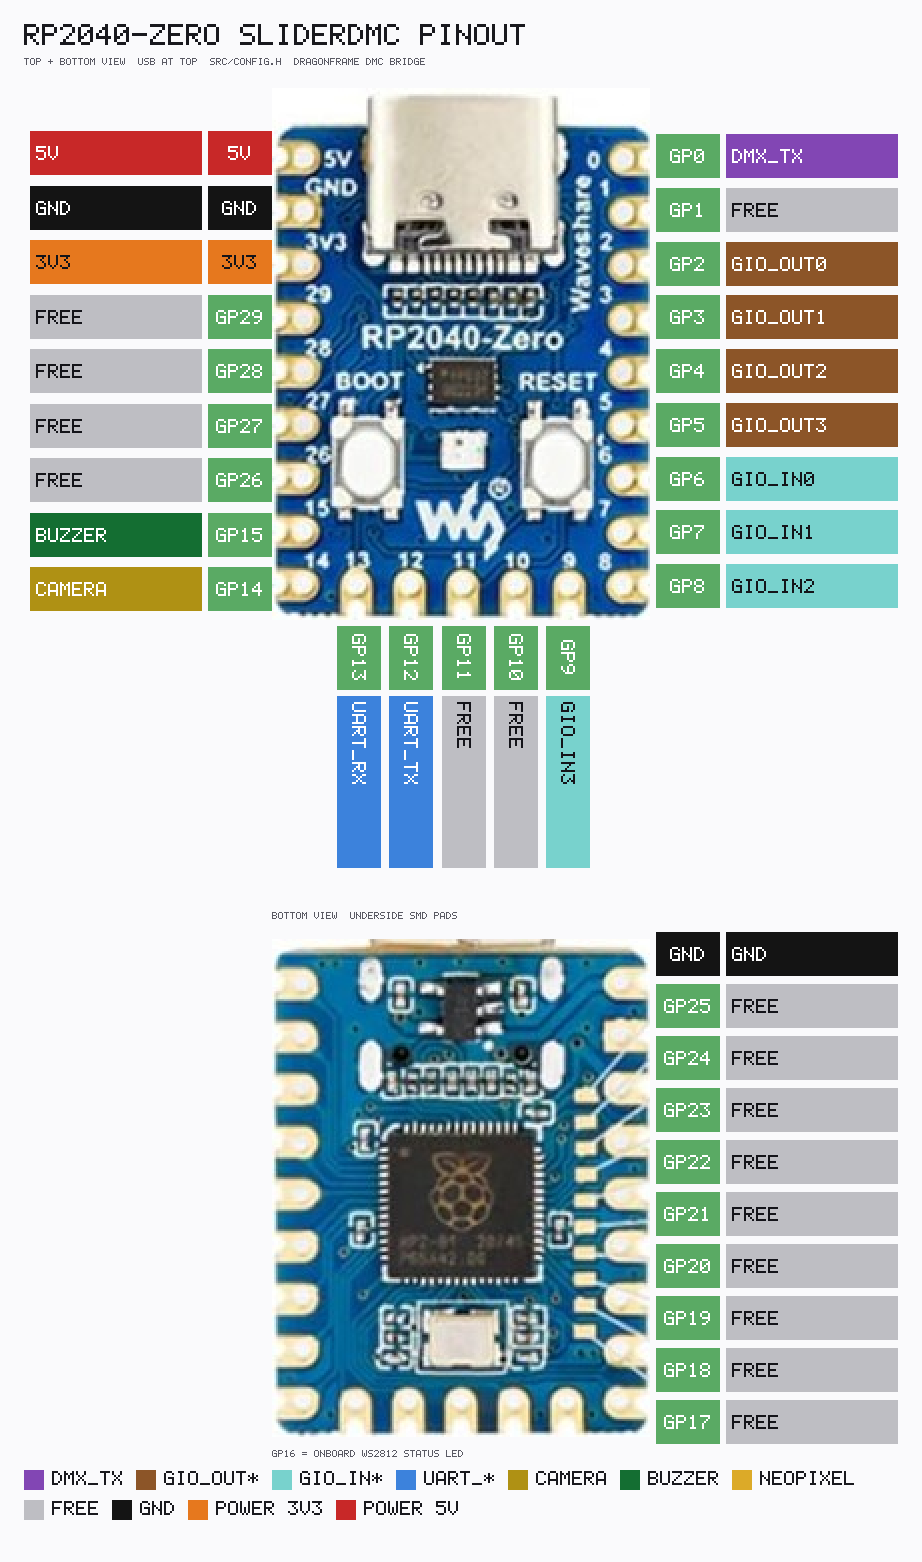
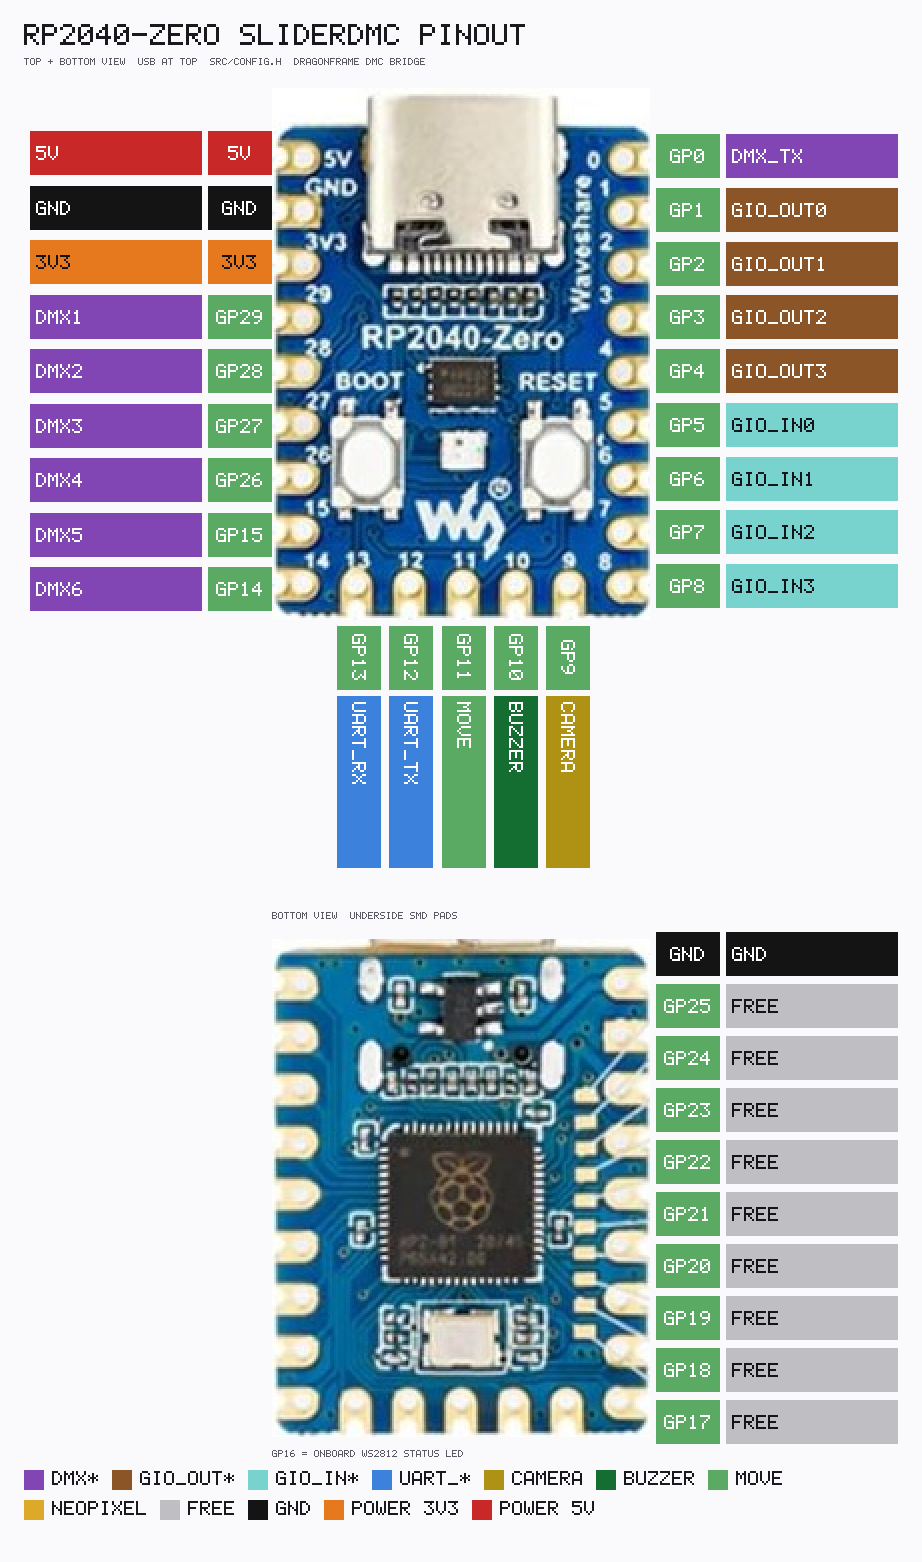
Document motor/servo unit keys and the remapped DMC pinout.
axis_N_unit is the packed read-only label; DMC camera/buzzer/GIO move so DMX1-6 PWM and MOVE fit on the Zero.

diff --git a/tools/render_rp2040zero_pinout_SliderDMC.py b/tools/render_rp2040zero_pinout_SliderDMC.py
@@ -53,34 +53,34 @@ LEFT = [
     ("5V", "5V"),
     ("GND", "GND"),
     ("3V3", "3V3"),
-    ("GP29", "free"),
-    ("GP28", "free"),
-    ("GP27", "free"),
-    ("GP26", "free"),
-    ("GP15", "BUZZER"),
-    ("GP14", "CAMERA"),
+    ("GP29", "DMX1"),
+    ("GP28", "DMX2"),
+    ("GP27", "DMX3"),
+    ("GP26", "DMX4"),
+    ("GP15", "DMX5"),
+    ("GP14", "DMX6"),
 ]
 
 # Right edge, top→bottom.
 RIGHT = [
     ("GP0", "DMX_TX"),
-    ("GP1", "free"),
-    ("GP2", "GIO_OUT0"),
-    ("GP3", "GIO_OUT1"),
-    ("GP4", "GIO_OUT2"),
-    ("GP5", "GIO_OUT3"),
-    ("GP6", "GIO_IN0"),
-    ("GP7", "GIO_IN1"),
-    ("GP8", "GIO_IN2"),
+    ("GP1", "GIO_OUT0"),
+    ("GP2", "GIO_OUT1"),
+    ("GP3", "GIO_OUT2"),
+    ("GP4", "GIO_OUT3"),
+    ("GP5", "GIO_IN0"),
+    ("GP6", "GIO_IN1"),
+    ("GP7", "GIO_IN2"),
+    ("GP8", "GIO_IN3"),
 ]
 
 # Bottom edge, left→right.
 BOTTOM = [
     ("GP13", "UART_RX"),
     ("GP12", "UART_TX"),
-    ("GP11", "free"),
-    ("GP10", "free"),
-    ("GP9", "GIO_IN3"),
+    ("GP11", "MOVE"),
+    ("GP10", "BUZZER"),
+    ("GP9", "CAMERA"),
 ]
 
 # Bottom view SMD pads, top→bottom.
@@ -98,12 +98,13 @@ BOT_PADS = [
 ]
 
 LEGEND = [
-    ("DMX_TX", C_DRV),
+    ("DMX*", C_DRV),
     ("GIO_OUT*", C_EXT),
     ("GIO_IN*", C_SW),
     ("UART_*", C_UART),
     ("CAMERA", C_CAMERA),
     ("BUZZER", C_BUZZER),
+    ("MOVE", C_GP),
     ("NEOPIXEL", C_LED),
     ("free", C_FREE),
     ("GND", C_GND),
@@ -117,8 +118,9 @@ ASCII_HEAD = (
 )
 
 ASCII_NOTES = [
-    "Legend: DMX_TX GP0 (PIO UART 250k 8N2); GIO OUT GP2–5; GIO IN GP6–9.",
-    "UART to SliderMC 115200 baud GP12 (TX) / GP13 (RX). CAMERA GP14 (OC). BUZZER GP15.",
+    "Legend: DMX_TX GP0 (PIO UART 250k 8N2); DMX1–6 PWM 18 kHz on GP29/28/27/26/15/14 (ch 1–6).",
+    "GIO OUT GP1–4; GIO IN GP5–8. UART to SliderMC 115200 baud GP12 (TX) / GP13 (RX).",
+    "CAMERA GP9 (OC). BUZZER GP10. MOVE GP11 high while verbose status is M/A/B/H/P.",
     "GP16 = onboard WS2812 status LED. GP17–20 are not DMC GIO (those are MC extender pins).",
     "Cross UART to SliderMC: DMC TX GP12 → MC RX; DMC RX GP13 ← MC TX. See dmc/pins.md.",
 ]

diff --git a/tools/pinout_common.py b/tools/pinout_common.py
@@ -253,6 +253,8 @@ def color_for(label: str, gpio: str, pin_num: int | None = None):
         return C_POT
     if lab == "CAMERA_CTRL" or lab == "CAMERA":
         return C_CAMERA
+    if lab == "MOVE":
+        return C_GP
     if lab.startswith("CTRL_") or "CTRL_CAMERA" in lab:
         return C_CTRL
     if lab.startswith("LED_") or lab in ("LED", "PIN_LED") or "NEOPIXEL" in lab:

diff --git a/dmc/pins.md b/dmc/pins.md
@@ -19,13 +19,20 @@ Regenerate: `python tools/render_rp2040zero_pinout_SliderDMC.py` → [`DMC_RP204
 | Pad | Function |
 |-----|----------|
 | GP0 | DMX512 TX (PIO UART 250000 8N2 + BREAK/MAB). MAX485 for a real universe; TTL is enough on the bench |
-| GP2–GP5 | DMC GIO **OUT** bits 0–3 (open-collector + pull-up) |
-| GP6–GP9 | DMC GIO **IN** bits 0–3 (pull-up; unsolicited `MSG_GIO_IN` after Connect) |
+| GP1–GP4 | DMC GIO **OUT** bits 0–3 (open-collector + pull-up) |
+| GP5–GP8 | DMC GIO **IN** bits 0–3 (pull-up; unsolicited `MSG_GIO_IN` after Connect) |
+| GP9 | Camera shutter (open-collector + pull-up); also MC `CT` on `MSG_GIO_CAM` shutter |
+| GP10 | Preroll/bloop buzzer; also MC `BE` from `RUN_MOVE` |
+| GP11 | **MOVE** — push-pull, high while the verbose status letter is `M`, `A`, `B`, `H`, or `P`; low on `I`, `E`, `D`, `L`. `T` (camera overlay) leaves the pin as it is |
 | GP12 | UART TX to SliderMC (115200) |
 | GP13 | UART RX from SliderMC |
-| GP14 | Camera shutter (open-collector + pull-up); also MC `CT` on `MSG_GIO_CAM` shutter |
-| GP15 | Preroll/bloop buzzer; also MC `BE` from `RUN_MOVE` |
+| GP14 | DMX6 PWM (channel 6) |
+| GP15 | DMX5 PWM (channel 5) |
 | GP16 | Onboard WS2812 status LED |
+| GP26 | DMX4 PWM (channel 4) |
+| GP27 | DMX3 PWM (channel 3) |
+| GP28 | DMX2 PWM (channel 2) |
+| GP29 | DMX1 PWM (channel 1) |
 | USB CDC | Dragonframe DMC |
 
 GP17–20 are **not** DMC GIO. SliderMC extender pins (`ED`/`EI`/`EO`) stay on the **motion** Zero. Do not share those pads with this board’s GIO.
@@ -89,11 +96,28 @@ A/B polarity: if dimmers ignore the universe, swap A/B. Bench without a transcei
 
 ---
 
-## Camera GP14 — 2N7000 level-shifter (5 V) and GPIO protection
+## DMX1–DMX6 PWM
 
-Firmware drives GP14 as **open-collector + pull-up** (same idea as SliderMC `PIN_CAMERA_CTRL`). The pad is **3.3 V only**. Use this FET path when the camera or box wants **5 V TTL/CMOS** and shared GND is OK.
+Channels **1–6** of the same 512-byte buffer also drive PWM, so a dimmer can sit on the Zero without a DMX receiver. Channels 7–512 stay on the GP0 UART only.
 
-**GPIO protection:** series 220–470 Ω from GP14 to the gate; optional BAT54 (or Schottky) clamp from the pad to 3.3 V and GND. Never put 5 V on GP14.
+| Name | Pad | Channel |
+|------|-----|---------|
+| DMX1 | GP29 | 1 |
+| DMX2 | GP28 | 2 |
+| DMX3 | GP27 | 3 |
+| DMX4 | GP26 | 4 |
+| DMX5 | GP15 | 5 |
+| DMX6 | GP14 | 6 |
+
+18 kHz, high-active, 255 counts per period. Level 0 is steady low, level 255 is steady high, and a level *n* is high for *n*/255 of the period (1 → 1/255, 10 → 10/255, 254 → 254/255).
+
+---
+
+## Camera GP9 — 2N7000 level-shifter (5 V) and GPIO protection
+
+Firmware drives GP9 as **open-collector + pull-up** (same idea as SliderMC `PIN_CAMERA_CTRL`). The pad is **3.3 V only**. Use this FET path when the camera or box wants **5 V TTL/CMOS** and shared GND is OK.
+
+**GPIO protection:** series 220–470 Ω from GP9 to the gate; optional BAT54 (or Schottky) clamp from the pad to 3.3 V and GND. Never put 5 V on GP9.
 
 Isolated dry-contact shutter cables: use a **PC817** instead — [components/camera.md](../components/camera.md) and [mc/pins.md](../mc/pins.md#pin_camera_ctrl-low-active-open-collector).
 
@@ -102,7 +126,7 @@ Isolated dry-contact shutter cables: use a **PC817** instead — [components/cam
           |                            |
          BAT54*                       10k
           |                            |
-  GP14 -- 330 Ω -- G (2N7000)          |
+  GP9 -- 330 Ω -- G (2N7000)          |
                     S -------- D ------+---- camera TTL in
                     |
                    GND
@@ -117,7 +141,7 @@ Idle (pad released ~3.3 V): FET off → output **5 V**. Shutter (pad LOW): FET o
 
 ---
 
-## Buzzer GP15 — BC3xx NPN driver
+## Buzzer GP10 — BC3xx NPN driver
 
 Do not hang a 5 V buzzer on the GPIO. Use an NPN low-side switch (`BC337` / `BC547`; not PNP `BC327`). Firmware also pulses MC `BE` — **one physical buzzer** is enough (this board **or** the MC).
 
@@ -132,7 +156,7 @@ Do not hang a 5 V buzzer on the GPIO. Use an NPN low-side switch (`BC337` / `BC5
                        |
                       1 kΩ
                        |
-                      GP15
+                      GP10
 ```
 
 Active (self-drive) buzzers: omit the flyback diode. Passive piezo: this is an on/off driver, not a tone generator.

diff --git a/mc/dual-movement.md b/mc/dual-movement.md
@@ -73,10 +73,10 @@ Protocol text often says mm / mm/s / mm/s², but values are **user units** conve
 
 | Setup | Treat args as | Set |
 |-------|---------------|-----|
-| Linear slider | mm, mm/s, mm/s² | `steps_per_unit_1` = steps per mm; `unit_name=mm` |
-| Rotary / pan | °, °/s, °/s² | `steps_per_unit_1` (or `_2`) = steps per degree; `unit_name=deg` |
+| Linear slider | mm, mm/s, mm/s² | `steps_per_unit_1` = steps per mm; `motor_1_unit=mm` |
+| Rotary / pan | °, °/s, °/s² | `steps_per_unit_1` (or `_2`) = steps per degree; `motor_N_unit=deg` |
 
-`CG unit_name` lets a UIC show the unit label (default `mm`). Soft limits, `IP`, and verbose positions use the same user unit.
+`CG axis_N_unit` is the packed label a UIC shows. It is generated from `motor_N_unit` (default `mm`) or `servo_N_unit` (default `deg`). **`CS axis_N_unit` is rejected.** Soft limits, `IP`, and verbose positions use the same user unit.
 
 Same-release synonyms: `steps_per_mm_1` / `steps_per_mm_2` still set the same fields; `CG`/`foreach` emit the canonical names. There are **no aliases** for unnumbered `steps_per_unit` / `steps_per_mm`.
 
@@ -106,7 +106,7 @@ CS MOTOR_2_max none
 | `DRV_*_1_active`, `SW_*_1_*`, `home_*_1` | same keys with `_2` (digit before `_active` / `_use`) |
 | `max_speed_1` / `max_accel_1` | `max_speed_2` / `max_accel_2` |
 
-**Shared** (not per-motor): session `SS`/`SA` (master units), `unit_name`, `motors`/`servos`, `name`, ramp/path globals, debug/verbose init. `MJ` uses session `SS` as 100 % and clamps each motor to its own `max_speed_N`. Packed servos use `SERVO_N_*`. Motor 3 uses the matching `_3` keys when `motors=3`.
+**Shared** (not per-motor): session `SS`/`SA` (master units), `motors`/`servos`, `name`, ramp/path globals, debug/verbose init. Each motor has `motor_N_unit`; each servo has `servo_N_unit`. Packed `axis_N_unit` is generated from those and is read-only. `MJ` uses session `SS` as 100 % and clamps each motor to its own `max_speed_N`. Packed servos use `SERVO_N_*`. Motor 3 uses the matching `_3` keys when `motors=3`.
 
 Full tables: [config.md](config.md).
 
@@ -120,7 +120,7 @@ Full tables: [config.md](config.md).
 4. **Prefer pan on motor 2** — keeps linear “mm” on motor 1 (`IP` first field / UIC habit). `WP` / Wait Pos is the **time-sync master** (optional 2nd arg is timeout). In-move `;` chains: [command-chains.md](../architecture/command-chains.md). Homing: `MH 1|2|3` (motors only).
 5. **`max_speed_1` / `max_speed_2` clamp:** if `|d2| ≫ |d1|`, scaled `v2` may hit `max_speed_2` and **lose** perfect time sync — shorten the axis2 move, raise the cap, or move axes sequentially. Mid-move `SS`/`SA` stay time-synced while coordination is active (same clamp still applies).
 6. **Path mode (`PG`):** extra `PD` args are **slice-timed**, not the same as dual-`MT` distance scaling. See [motion-path.md](motion-path.md).
-7. **UIC:** both JKSlider and B4Slider select packed axes 1–6 (`getAxisCount()`). JKSlider MOVE/FAST send packed `MJ` with **0** on unselected live channels; B4Slider MOVE uses skipped `MT`. JKSlider A/B/C marks, loops, DELAY, and MSM stay **axis 1**. Hosts/scripts can still send dual `MT` directly. Use `CG unit_name` for the display unit.
+7. **UIC:** both JKSlider and B4Slider select packed axes 1–6 (`getAxisCount()`). JKSlider MOVE/FAST send packed `MJ` with **0** on unselected live channels; B4Slider MOVE uses skipped `MT`. JKSlider A/B/C marks, loops, DELAY, and MSM stay **axis 1**. Hosts/scripts can still send dual `MT` directly. Use `CG axis_N_unit` for the display unit (`CS` rejects it; set `motor_N_unit` or `servo_N_unit`).
 
 ---
 
@@ -128,6 +128,6 @@ Full tables: [config.md](config.md).
 
 - [ ] `CS motors 2` (no `RB`)
 - [ ] `steps_per_unit_1` / `_2` match mechanics (mm or °)
-- [ ] `unit_name` set for UIC (`mm` or `deg`)
+- [ ] `motor_N_unit` / `servo_N_unit` set for UIC (`mm` or `deg`; read back as `axis_N_unit`)
 - [ ] Soft limits `none` on any endless rotate motor
 - [ ] Watch `|d2|/|d1|` vs `max_speed_1` / `max_speed_2` on dual seeks

diff --git a/contract/protocol.md b/contract/protocol.md
@@ -280,7 +280,7 @@ Verbose / `#` while in path-mode (state letter `P`) use the same layouts as othe
 | `CR` | Config Reset | — | Reset all config to compiled defaults and save `mc.ini`. |
 | `CG` | Config Get | `key` or bare | Get key → `CG:key=value`; bare dumps all keys. |
 
-Important keys: `init_speed`, `init_accel`, `max_speed_1`, `max_accel_1`, `max_speed_2`, `max_accel_2`, `max_speed_3`, `max_accel_3`, `steps_per_unit_1`, `unit_name`, `MOTOR_N_min`/`MOTOR_N_max`, `SERVO_N_min`/`SERVO_N_max`, `SERVO_N_min_pulse`/`SERVO_N_max_pulse`/`SERVO_N_swap`, synthesized `axis_min_N`/`axis_max_N`, `motors`, `servos`, `axis` (read-only sum; dump emits it), `name`, `init_verbose`, `init_terminal`, `init_debug_level`, pin keys with the digit **before** the suffix (`DRV_STEP_1_active`, `SW_LIMIT_R_3_use`), `BUZZER_use`, `home_mode_1` / `home_move_out_1` / `home_speed_1` / `home_accel_1`, matching `_2` / `_3` keys, `ramp_start_hz`, `stop_approach_hz`, `dir_change_pause_s`. Synonyms: `steps_per_mm_N`, `soft_min_N` / `soft_max_N` (aliases of packed `axis_min_N`). **`CS axis` and `CS slider_*` are rejected.** See [config.md](../mc/config.md).
+Important keys: `init_speed`, `init_accel`, `max_speed_1`, `max_accel_1`, `max_speed_2`, `max_accel_2`, `max_speed_3`, `max_accel_3`, `steps_per_unit_1`, `motor_N_unit` / `servo_N_unit` (stored; defaults `mm` / `deg`), `MOTOR_N_min`/`MOTOR_N_max`, `SERVO_N_min`/`SERVO_N_max`, `SERVO_N_min_pulse`/`SERVO_N_max_pulse`/`SERVO_N_swap`, synthesized `axis_min_N`/`axis_max_N` and `axis_N_unit` (packed copy of the motor or servo label), `motors`, `servos`, `axis` (read-only sum; dump emits it), `name`, `init_verbose`, `init_terminal`, `init_debug_level`, pin keys with the digit **before** the suffix (`DRV_STEP_1_active`, `SW_LIMIT_R_3_use`), `BUZZER_use`, `home_mode_1` / `home_move_out_1` / `home_speed_1` / `home_accel_1`, matching `_2` / `_3` keys, `ramp_start_hz`, `stop_approach_hz`, `dir_change_pause_s`. Synonyms: `steps_per_mm_N`, `soft_min_N` / `soft_max_N` (aliases of packed `axis_min_N`). **`CS axis`, `CS axis_N_unit`, and `CS slider_*` are rejected.** See [config.md](../mc/config.md).
 
 A UIC may shrink travel with session `SL` / `SR` (working window) — not by rewriting envelopes. See [working-window.md](../mc/working-window.md) and [marks vs working window](../architecture/marks-vs-working-window.md).
 

diff --git a/mc/config.md b/mc/config.md
@@ -53,7 +53,8 @@ Default is **3**.
 | `max_speed_2` / `max_speed_3` | float mm/s | 100 | Axis-2 / axis-3 speed ceiling (planner / `MJ`; session `SS` still vs `max_speed_1`) |
 | `max_accel_2` / `max_accel_3` | float mm/s² | 300 | Axis-2 / axis-3 accel ceiling |
 | `steps_per_unit_1` | float | 320 | Axis-1 steps per user unit (mm, deg, …); synonym `steps_per_mm_1` |
-| `unit_name` | string | `mm` | UIC unit label (max 7 printable ASCII chars; no `#`) |
+| `motor_1_unit` … `motor_3_unit` | string | `mm` | Stored UIC label for that motor (max 7 printable ASCII chars; no `#`) |
+| `servo_1_unit` … `servo_3_unit` | string | `deg` | Stored UIC label for that servo (same character rules) |
 | `MOTOR_1_min` | float units or `none` | 0 | Motor-1 envelope min (`none` / `-` disables); boot → session `SL`; homing; packed `axis_min_1` / `soft_min_1` |
 | `MOTOR_1_max` | float units or `none` | 600 | Motor-1 envelope max; boot → session `SR`; packed `axis_max_1` / `soft_max_1` |
 | `init_verbose` | 0/1 | 0 | Init for verbose `#…` push (~3 Hz); session via `SV`/`GV` |
@@ -64,6 +65,7 @@ Default is **3**.
 | `motors` | 1\|2\|3 | 1 | Live STEP/DIR count. `IA` / `CG axis` / banner use `motors+servos`. **Re-inits GPIO/PIO without `RB`.** |
 | `servos` | 0..3 | 0 | RC servo PWM channels. Pico GP26/27/18 (18 steals EXT_4 when `servos>=3`); Zero GP21–23. PWM 100 Hz, wrap 65535; default 500–2500 µs → ~**1.25′** / 0.021° per count over ±135°. |
 | `axis` | int (read) | 1 | Synthesized packed sum (`motors+servos`). `CG axis` and bare `CG` dump emit it. **`CS axis` is rejected.** |
+| `axis_N_unit` | string (read) | *(from source)* | Packed label copied from `motor_N_unit` or the matching `servo_*_unit` (motors, then servos). Bare `CG` emits it for live channels only. **`CS axis_N_unit` is rejected.** |
 | `name` | string | *(empty)* | Optional device name in welcome banner (max 31 printable ASCII chars; no `#`) |
 | `DRV_STEP_1_active` | 0/1 | 1 | Axis-1 STEP active level (PIO program) |
 | `DRV_STEP_2_active` | 0/1 | 1 | Axis-2 STEP polarity. **No `DRV_STEP_3_active`** — axis 3 STEP follows axis 2 (PIO has two polarity programs). |

diff --git a/reference/glossary.md b/reference/glossary.md
@@ -20,7 +20,7 @@ Terms used in JKSlider manuals, config, and the MC_Client API.
 | **motors** | STEP/DIR count | Config `motors` = `1\|2\|3`. Enable extras with `CS motors 2` or `CS motors 3` (no `RB`). Typical **linear travel + pan**, time-synced dual `MT`/`M` — not CNC. UIC: `MC_Client.getMotorCount()`. |
 | **servos** | RC PWM count | Config `servos` = `0..3`. Packed after motors (`A`/`B`/`C`). PWM ~1.25′ over ±135° at 500–2500 µs. |
 | **axis** | Packed channel count | Read-only sum `motors+servos` (`IA` / `CG axis`). **`CS axis` is rejected.** UIC: `MC_Client.axis_count`. See [dual-movement.md](../mc/dual-movement.md) and [protocol.md](../contract/protocol.md#live-axis-count-axis). |
-| **unit_name** | User-unit label | SliderMC config (`CG unit_name`); default `mm`. UIC readout for user units used with `steps_per_unit_1`. |
+| **motor_N_unit** | User-unit label | Stored SliderMC config (`CS motor_N_unit`, default `mm`). Servos use `servo_N_unit` (default `deg`). Packed `axis_N_unit` is generated from those keys; **`CS axis_N_unit` is rejected.** UIC readout is `MC_Client.axis_unit`. |
 | **DIR** | Direction | Digital STEP/DIR line that selects motor travel sense (forward vs reverse). SliderMC `PIN_DRV_DIR` (GP19); polarity via `DRV_DIR_1_active` / `CS`. |
 | **DIP** | Dual in-line package | Small switch banks on many stepper driver boards. Often used to set microstepping; those straps must match `MICROSTEPS` on SliderMC. |
 | **DRV_ERROR** | Driver error / E-stop interlock | Hardware stop input (`PIN_DRV_ERROR`, SliderMC GP21). When active, motion halts immediately, the driver is disabled, and further moves are blocked until the input clears. Use for a closed-loop driver’s alarm/OC output and/or a panel emergency-stop button. Not the same as the panel **STOP** key. |

diff --git a/dmc/mapping.md b/dmc/mapping.md
@@ -17,10 +17,10 @@ Motor payloads are **1-based**. Unknown types return ACK `0x0013` (unsupported).
 | DMC | Meaning | MC / local |
 |-----|---------|------------|
 | `0x0001` | hello / identify | hello reply, no ACK |
-| `0x0020` | live DMX | 512-ch buffer on GP0; RAMP=0 snap, RAMP=1 linear ramp. Per-frame `0x0102` → `ERR_UNSUPPORTED` |
-| `0x0021` | GIO out | GP2–5 |
-| `0x0022` | GIO in | GP6–9 (data reply) |
-| `0x0023` | camera | shutter: GP14 + `CT`; meter: ACK only |
+| `0x0020` | live DMX | 512-ch buffer on GP0; channels 1–6 also PWM (DMX1–DMX6). RAMP=0 snap, RAMP=1 linear ramp. Per-frame `0x0102` → `ERR_UNSUPPORTED` |
+| `0x0021` | GIO out | GP1–4 |
+| `0x0022` | GIO in | GP5–8 (data reply) |
+| `0x0023` | camera | shutter: GP9 + `CT`; meter: ACK only |
 | `0x0030` | motor status | moving bitmask + DMX-ramp byte |
 | `0x0031` | absolute move | `MT` (÷1000) |
 | `0x0032` / `0x0033` | stop | `MS` |
@@ -34,7 +34,7 @@ Motor payloads are **1-based**. Unknown types return ACK `0x0013` (unsupported).
 | `0x0100` / `0x0101` / `0x0103` | upload begin/axis/end | RAM table + `PC`/`PD` (µm = DMC step delta; split if \|delta\| > 32767) |
 | `0x0104` | RT triggers | apply GIO OUT bits at those frames |
 | `0x0110` | position frame | `MT` to that pose |
-| `0x0111` | run move | FPS×1000 → `PS`; `MT` start; bloop GP15+`BE`; then `PG start end` |
+| `0x0111` | run move | FPS×1000 → `PS`; `MT` start; bloop GP10+`BE`; then `PG start end` |
 | `0x0113` | go | `PG` range |
 | `0x0114` | end | sent when path finishes |
 | `0x0120` | jog all | FPS×1000 → `PS`; `PG` current→dest |

diff --git a/contract/command-cheatsheet.md b/contract/command-cheatsheet.md
@@ -147,5 +147,5 @@ Executed immediately without \n
 - Path mode (`PG`): most move/session cmds → `!E:busy`; allowed: `MS`/`ME`/`RB`/`PD`/`PN`/`I*`/`G*`/`V*`/`IG`/`HL`/`?`/`CG`/`BE`/`CT`.
 - `MJ` / Move Joy: signed % of `SS`; skip unchanged values; `SS`/`SA` live in joy-mode. Hold-to-jog: `SS` then `MJ ±100`, `MS` on release. See [motion-joy.md](../mc/motion-joy.md).
 - Skip token `_` only (`MT`/`MB`/`PD`/`SL`/`SR`). Named `X`/`Y`/`Z`/`A`/`B`/`C` is an alternative (not mixed with positional). `SL`/`SR` `none` clears a side (effective = envelope when set). See [working-window.md](../mc/working-window.md).
-- Envelopes / units: `MOTOR_N_min`/`MOTOR_N_max`, `SERVO_N_min`/`SERVO_N_max`, synthesized `axis_min_N`, `steps_per_unit_N`, `unit_name`. Servo pulse `SERVO_N_min_pulse`/`max_pulse` (default 500–2500 µs; analog 1000–2000); `SERVO_N_swap` reverses sense. `CS axis` and `CS slider_*` are rejected.
+- Envelopes / units: `MOTOR_N_min`/`MOTOR_N_max`, `SERVO_N_min`/`SERVO_N_max`, synthesized `axis_min_N`, `steps_per_unit_N`, stored `motor_N_unit` / `servo_N_unit`, synthesized read-only `axis_N_unit`. Servo pulse `SERVO_N_min_pulse`/`max_pulse` (default 500–2500 µs; analog 1000–2000); `SERVO_N_swap` reverses sense. `CS axis`, `CS axis_N_unit`, and `CS slider_*` are rejected.
 - Breaking wire (`ME`, `?` help, `#` status only, `/` comments, `CT`) does **not** bump `VP` — still `VP:1`.

diff --git a/contract/command-cheatsheet2.md b/contract/command-cheatsheet2.md
@@ -155,5 +155,5 @@ Executed immediately without \n
 - Path mode (`PG`): most move/session cmds → `!E:busy`; allowed: `MS`/`ME`/`RB`/`PD`/`PN`/`I*`/`G*`/`V*`/`IG`/`HL`/`?`/`CG`/`BE`/`CT`.
 - `MJ` / Move Joy: signed % of `SS`; skip unchanged values; `SS`/`SA` live in joy-mode. Hold-to-jog: `SS` then `MJ ±100`, `MS` on release. See [motion-joy.md](../mc/motion-joy.md).
 - Skip token `_` only (`MT`/`MB`/`PD`/`SL`/`SR`). Named `X`/`Y`/`Z`/`A`/`B`/`C` is an alternative (not mixed with positional). `SL`/`SR` `none` clears a side (effective = envelope when set). See [working-window.md](../mc/working-window.md).
-- Envelopes / units: `MOTOR_N_min`/`MOTOR_N_max`, `SERVO_N_min`/`SERVO_N_max`, synthesized `axis_min_N`, `steps_per_unit_N`, `unit_name`. Servo pulse `SERVO_N_min_pulse`/`max_pulse` (default 500–2500 µs; analog 1000–2000); `SERVO_N_swap` reverses sense. `CS axis` and `CS slider_*` are rejected.
+- Envelopes / units: `MOTOR_N_min`/`MOTOR_N_max`, `SERVO_N_min`/`SERVO_N_max`, synthesized `axis_min_N`, `steps_per_unit_N`, stored `motor_N_unit` / `servo_N_unit`, synthesized read-only `axis_N_unit`. Servo pulse `SERVO_N_min_pulse`/`max_pulse` (default 500–2500 µs; analog 1000–2000); `SERVO_N_swap` reverses sense. `CS axis`, `CS axis_N_unit`, and `CS slider_*` are rejected.
 - Breaking wire (`ME`, `?` help, `#` status only, `/` comments, `CT`) does **not** bump `VP` — still `VP:1`.

diff --git a/uic/api/overview.md b/uic/api/overview.md
@@ -612,7 +612,7 @@ Shipped defaults live in `MC_config.py` / `UIC_config.py` / `JKSliderConfig.py`.
 | `PIN_LED_ONBOARD` | `"LED"` | Pico onboard LED (heartbeat) |
 | `DEBUG_LEVEL` | 3 | USB debug verbosity |
 
-Mechanics (`steps_per_unit_1`), `max_speed_1` / `max_accel_1`, `unit_name`, `MOTOR_1_min` / `MOTOR_1_max`, and `MOTOR_2_min` / `MOTOR_2_max` live on **SliderMC** and are loaded into `MC_Client` via `CG` after the welcome banner (`mc_config`, packed `axis_count` from CG `axis`, `motors`/`servos` from those keys). Python object fields `mc.max_speed` / `mc.slider_min` stay filled from motor 1 / packed channel 1. `status` tracks McState (`MC_STATE_*` / `MC_STATE_CHARS`).
+Mechanics (`steps_per_unit_1`), `max_speed_1` / `max_accel_1`, `motor_N_unit` / `servo_N_unit`, `MOTOR_1_min` / `MOTOR_1_max`, and `MOTOR_2_min` / `MOTOR_2_max` live on **SliderMC** and are loaded into `MC_Client` via `CG` after the welcome banner (`mc_config`, packed `axis_count` from CG `axis`, `motors`/`servos` from those keys). Packed `axis_N_unit` is generated and read-only; `mc.axis_unit` is the six labels from that dump. Python object fields `mc.max_speed` / `mc.slider_min` stay filled from motor 1 / packed channel 1. `status` tracks McState (`MC_STATE_*` / `MC_STATE_CHARS`).
 
 ### JKSlider panel (`JKSliderConfig.py`)
 

diff --git a/components/camera.md b/components/camera.md
@@ -27,7 +27,7 @@ Low-active open-collector sink. Two ways to reach the camera:
 
 Intended out-side pull-up is **5 V**. FET `V_DS`: BSS138 **50 V**, 2N7000 **60 V**. Pico pad is **3.3 V only** — never put 5 V on `PIN_CAMERA_CTRL`. Full ASCII, pinouts, and voltage notes: [mc/pins.md](../mc/pins.md#pin_camera_ctrl-low-active-open-collector).
 
-**SliderDMC:** Dragonframe shutter may also sit on the DMC Zero **GP14** (same OC idea, 2N7000 + GPIO protection ASCII). Firmware still sends MC `CT`. See [dmc/pins.md](../dmc/pins.md#camera-gp14--2n7000-level-shifter-5-v-and-gpio-protection).
+**SliderDMC:** Dragonframe shutter may also sit on the DMC Zero **GP9** (same OC idea, 2N7000 + GPIO protection ASCII). Firmware still sends MC `CT`. See [dmc/pins.md](../dmc/pins.md#camera-gp9--2n7000-level-shifter-5-v-and-gpio-protection).
 
 ## JKSlider MSM (`mc.cameraTrigger` / MC `CT`)
 
